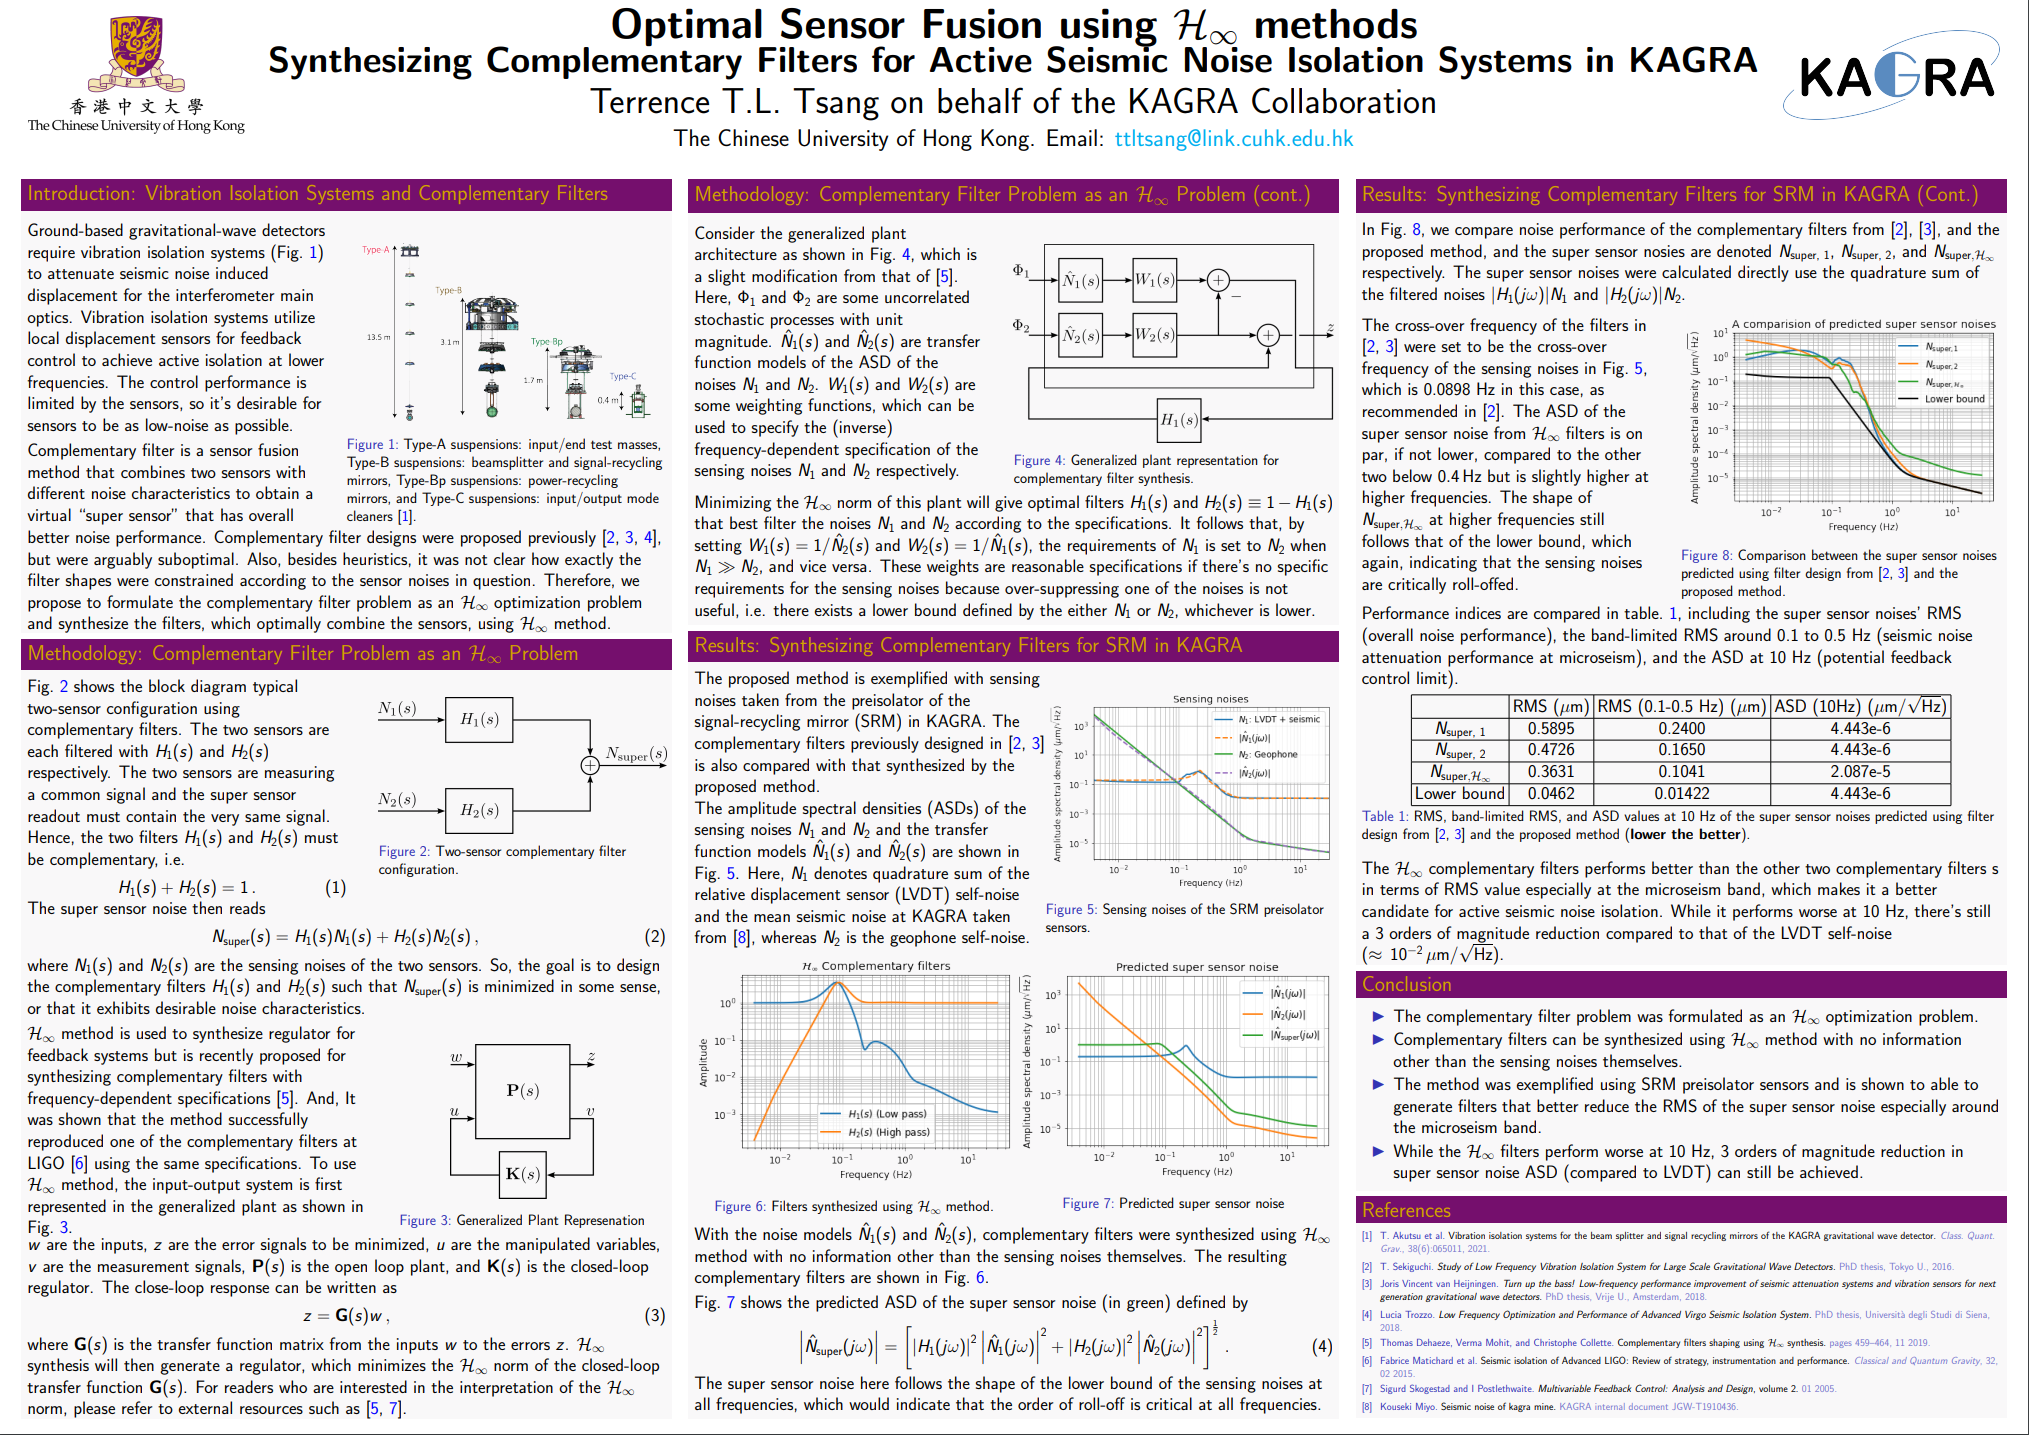
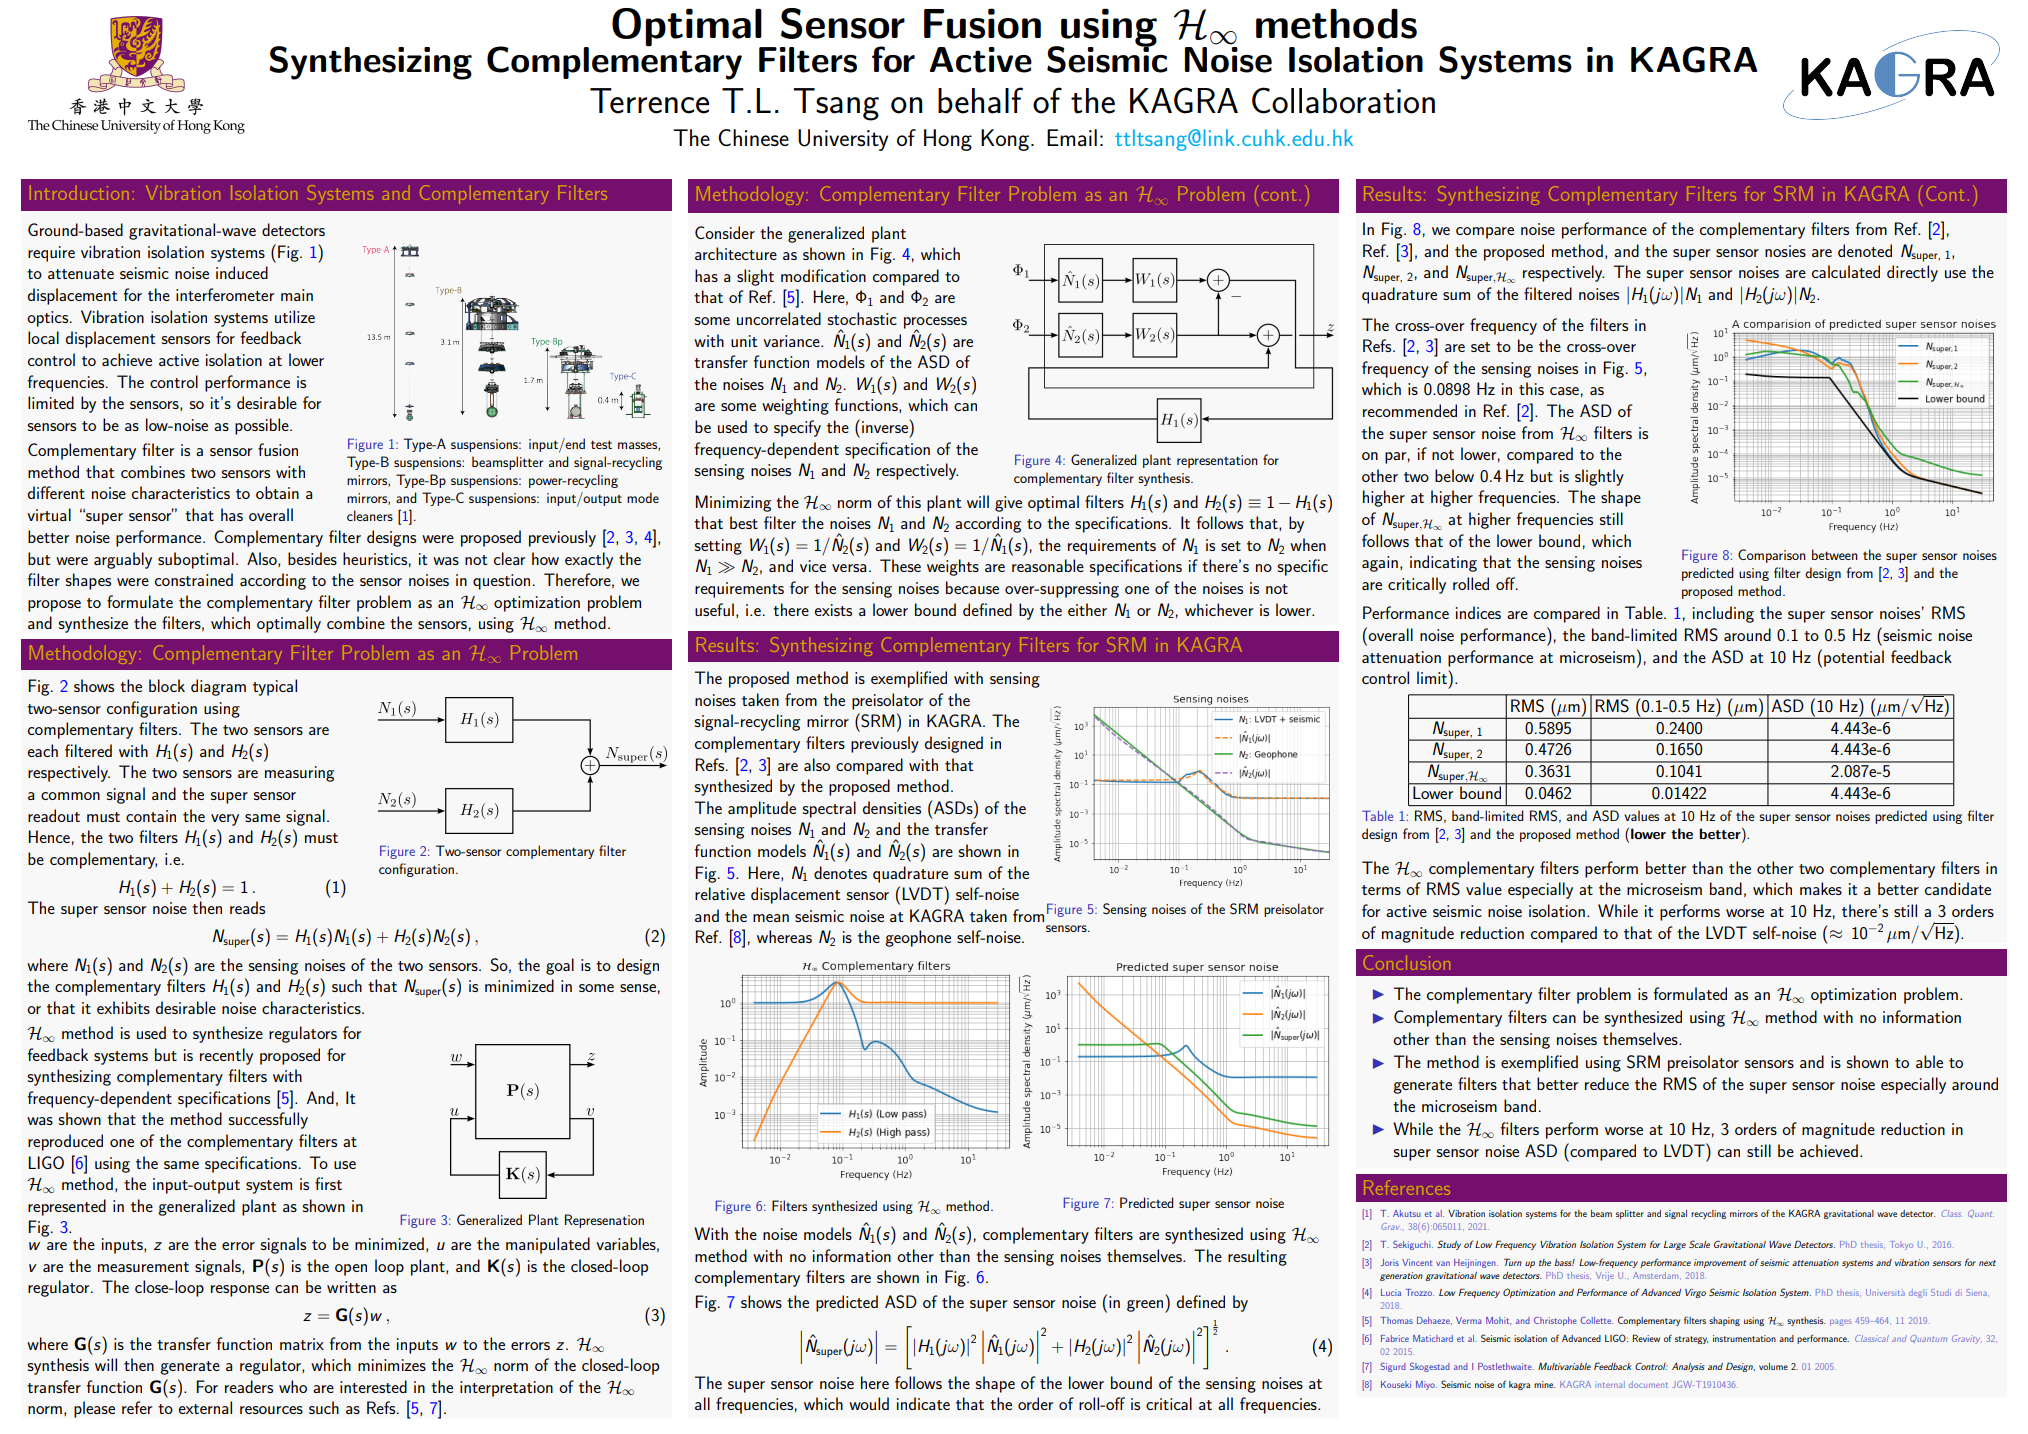
final submission

diff --git a/poster_terrence_tak_lun_tsang.tex b/poster_terrence_tak_lun_tsang.tex
@@ -182,7 +182,7 @@
 %			Therefore, we seek to find a method that can automatically generate optimal complementary filters according to the sensing noises themselves.
 			\begin{columns}[t, onlytextwidth]
 				\begin{column}{0.55\textwidth}
-					$\mathcal{H}_\infty$ method is used to synthesize regulator for feedback systems but is recently proposed for synthesizing complementary filters with frequency-dependent specifications \cite{Thomas:2019}.
+					$\mathcal{H}_\infty$ method is used to synthesize regulators for feedback systems but is recently proposed for synthesizing complementary filters with frequency-dependent specifications \cite{Thomas:2019}.
 					And, It was shown that the method successfully reproduced one of the complementary filters at LIGO \cite{Matichard:2015} using the same specifications.
 					To use $\mathcal{H}_\infty$ method, the input-output system is first represented in the generalized plant as shown in Fig.~\ref{fig:generalized_plant_representation}.
 				\end{column}
@@ -211,7 +211,7 @@
 			%			where $\mathbf{G}(s) = P_{11}(s) + P_{12}(s)\mathbf{K}(s)\left(I-P_{22}(s)\mathbf{K}(s)\right)^{-1}P_{21}(s)$ is the closed-loop transfer function matrix of the system.
 			where $\mathbf{G}(s)$ is the transfer function matrix from the inputs $w$ to the errors $z$.
 			$\mathcal{H}_\infty$ synthesis will then generate a regulator, which minimizes the $\mathcal{H}_\infty$ norm of the closed-loop transfer function $\mathbf{G}(s)$.
-			For readers who are interested in the interpretation of the $\mathcal{H}_\infty$ norm, please refer to external resources such as \cite{Thomas:2019, multivariable_feedback_control}.
+			For readers who are interested in the interpretation of the $\mathcal{H}_\infty$ norm, please refer to external resources such as Refs.~\cite{Thomas:2019, multivariable_feedback_control}.
 			\end{block}
 		\end{column}
 		
@@ -232,8 +232,8 @@
 			\begin{columns}[t, onlytextwidth]
 				\begin{column}{0.45\textwidth}
 %					Although everything about $\mathcal{H}_\infty$ method so far has been discussed under the context of feedback control, it can also be used to synthesize complementary filters.
-					Consider the generalized plant architecture as shown in Fig.~\ref{fig:generlized_plant_complementary_filter}, which is a slight modification from that of \cite{Thomas:2019}.
-					Here, $\Phi_1$ and $\Phi_2$ are some uncorrelated stochastic processes with unit magnitude.
+					Consider the generalized plant architecture as shown in Fig.~\ref{fig:generlized_plant_complementary_filter}, which has a slight modification compared to that of Ref.~\cite{Thomas:2019}.
+					Here, $\Phi_1$ and $\Phi_2$ are some uncorrelated stochastic processes with unit variance.
 					$\hat{N}_1(s)$ and $\hat{N}_2(s)$ are transfer function models of the ASD of the noises $N_1$ and $N_2$.
 					$W_1(s)$ and $W_2(s)$ are some weighting functions, which can be used to specify the (inverse) frequency-dependent specification of the sensing noises $N_1$ and $N_2$ respectively.
 				\end{column}
@@ -273,10 +273,10 @@
 				\begin{columns}[t, onlytextwidth]
 					\begin{column}{0.55\textwidth}
 						The proposed method is exemplified with sensing noises taken from the preisolator of the signal-recycling mirror (SRM) in KAGRA.
-						The complementary filters previously designed in \cite{Sekiguchi:2016bmv,vanHeijningen:2018cpc} is also compared with that synthesized by the proposed method.
+						The complementary filters previously designed in Refs.~\cite{Sekiguchi:2016bmv,vanHeijningen:2018cpc} are also compared with that synthesized by the proposed method.
 						
 						The amplitude spectral densities (ASDs) of the sensing noises $N_1$ and $N_2$ and the transfer function models $\hat{N}_1(s)$ and $\hat{N}_2(s)$ are shown in Fig.~\ref{fig:noise_fit}.
-						Here, $N_1$ denotes quadrature sum of the relative displacement sensor (LVDT) self-noise and the mean seismic noise at KAGRA taken from \cite{seismic_noise_of_kagra}, whereas $N_2$ is the geophone self-noise.
+						Here, $N_1$ denotes quadrature sum of the relative displacement sensor (LVDT) self-noise and the mean seismic noise at KAGRA taken from Ref.~\cite{seismic_noise_of_kagra}, whereas $N_2$ is the geophone self-noise.
 					\end{column}
 					\begin{column}{0.45\textwidth}
 						\begin{figure}
@@ -310,7 +310,7 @@
 				
 				\medskip
 				
-				With the noise models $\hat{N}_1(s)$ and $\hat{N}_2(s)$, complementary filters were synthesized using $\mathcal{H}_\infty$ method with no information other than the sensing noises themselves.
+				With the noise models $\hat{N}_1(s)$ and $\hat{N}_2(s)$, complementary filters are synthesized using $\mathcal{H}_\infty$ method with no information other than the sensing noises themselves.
 				The resulting complementary filters are shown in Fig.~\ref{fig:complementary_filters_hinfinity}.
 				
 				\medskip
@@ -331,16 +331,16 @@
 				%				complementary filters from advanced LIGO \cite{Matichard:2015} and Virgo \cite{low_frequency_optimization_and_performance_of_advanced_virgo_seismic_isolation_system} also exhibit similar behavior, but the feature is clearly missing from that of \cite{Sekiguchi:2016bmv} and \cite{vanHeijningen:2018cpc}.
 				%				This is a designed feature to provide additional seismic noise attenuation in the relative displacement sensor readout.
 				%				Using the proposed method, we arrived at the same design feature by optimization using no additional information rather than the sensing noise themselves.
-			In Fig.~\ref{fig:super_sensor_noise_comparison}, we compare noise performance of the complementary filters from \cite{Sekiguchi:2016bmv}, \cite{vanHeijningen:2018cpc}, and the proposed method, and the super sensor nosies are denoted $N_\text{super, 1}$, $N_\text{super, 2}$, and $N_{\text{super},\mathcal{H}_\infty}$ respectively.
-			The super sensor noises were calculated directly use the quadrature sum of the filtered noises $\vert H_1(j\omega)\vert N_1$ and $\vert H_2(j\omega)\vert N_2$.
+			In Fig.~\ref{fig:super_sensor_noise_comparison}, we compare noise performance of the complementary filters from Ref.~\cite{Sekiguchi:2016bmv}, Ref.~\cite{vanHeijningen:2018cpc}, and the proposed method, and the super sensor nosies are denoted $N_\text{super, 1}$, $N_\text{super, 2}$, and $N_{\text{super},\mathcal{H}_\infty}$ respectively.
+			The super sensor noises are calculated directly use the quadrature sum of the filtered noises $\vert H_1(j\omega)\vert N_1$ and $\vert H_2(j\omega)\vert N_2$.
 			
 			\medskip
 			
 			\begin{columns}[onlytextwidth]
 				\begin{column}{0.45\textwidth}
-					The cross-over frequency of the filters in \cite{Sekiguchi:2016bmv, vanHeijningen:2018cpc} were set to be the cross-over frequency of the sensing noises in Fig.~\ref{fig:noise_fit}, which is 0.0898 Hz in this case, as recommended in \cite{Sekiguchi:2016bmv}.
+					The cross-over frequency of the filters in Refs.~\cite{Sekiguchi:2016bmv, vanHeijningen:2018cpc} are set to be the cross-over frequency of the sensing noises in Fig.~\ref{fig:noise_fit}, which is 0.0898 Hz in this case, as recommended in Ref.~\cite{Sekiguchi:2016bmv}.
 					The ASD of the super sensor noise from $\mathcal{H}_\infty$ filters is on par, if not lower, compared to the other two below $0.4\,\text{Hz}$ but is slightly higher at higher frequencies.
-					The shape of $N_{\text{super}, \mathcal{H}_\infty}$ at higher frequencies still follows that of the lower bound, which again, indicating that the sensing noises are critically roll-offed.
+					The shape of $N_{\text{super}, \mathcal{H}_\infty}$ at higher frequencies still follows that of the lower bound, which again, indicating that the sensing noises are critically rolled off.
 				\end{column}
 				\begin{column}{0.5\textwidth}
 					\begin{figure}
@@ -354,11 +354,11 @@
 
 			\medskip
 			
-			Performance indices are compared in table.~\ref{table:metrics}, including the super sensor noises' RMS (overall noise performance), the band-limited RMS around 0.1 to 0.5 Hz (seismic noise attenuation performance at microseism), and the ASD at 10 Hz (potential feedback control limit).
+			Performance indices are compared in Table.~\ref{table:metrics}, including the super sensor noises' RMS (overall noise performance), the band-limited RMS around 0.1 to 0.5 Hz (seismic noise attenuation performance at microseism), and the ASD at 10 Hz (potential feedback control limit).
 			\begin{table}
 				\begin{tabular}{|c|c|c|c|}
 					\hline
-					& RMS ($\mu\text{m}$) & RMS (0.1-0.5 Hz) ($\mu\text{m}$)& ASD (10Hz) ($\mu\text{m}/\sqrt{\text{Hz}}$)\\
+					& RMS ($\mu\text{m}$) & RMS (0.1-0.5 Hz) ($\mu\text{m}$)& ASD (10 Hz) ($\mu\text{m}/\sqrt{\text{Hz}}$)\\
 					\hline
 					$N_\text{super, 1}$ & 0.5895 & 0.2400 & 4.443e-6\\
 					\hline
@@ -372,14 +372,14 @@
 				\caption{RMS, band-limited RMS, and ASD values at 10 Hz of the super sensor noises predicted using filter design from \cite{Sekiguchi:2016bmv,vanHeijningen:2018cpc} and the proposed method (\textbf{lower the better}).}
 				\label{table:metrics}
 			\end{table}
-			The $\mathcal{H}_\infty$ complementary filters performs better than the other two complementary filters s in terms of RMS value especially at the microseism band, which makes it a better candidate for active seismic noise isolation.
+			The $\mathcal{H}_\infty$ complementary filters perform better than the other two complementary filters in terms of RMS value especially at the microseism band, which makes it a better candidate for active seismic noise isolation.
 			While it performs worse at 10 Hz, there's still a 3 orders of magnitude reduction compared to that of the LVDT self-noise ($\approx\, 10^{-2}\,\mu\text{m}/\sqrt{\text{Hz}}$).
 			\end{block}
 			\begin{block}{Conclusion}
 				\begin{itemize}
-					\item The complementary filter problem was formulated as an $\mathcal{H}_\infty$ optimization problem.
+					\item The complementary filter problem is formulated as an $\mathcal{H}_\infty$ optimization problem.
 					\item Complementary filters can be synthesized using $\mathcal{H}_\infty$ method with no information other than the sensing noises themselves.
-					\item The method was exemplified using SRM preisolator sensors and is shown to able to generate filters that better reduce the RMS of the super sensor noise especially around the microseism band.
+					\item The method is exemplified using SRM preisolator sensors and is shown to able to generate filters that better reduce the RMS of the super sensor noise especially around the microseism band.
 					\item While the $\mathcal{H}_\infty$ filters perform worse at 10 Hz, 3 orders of magnitude reduction in super sensor noise ASD (compared to LVDT) can still be achieved.
 				\end{itemize}
 			\end{block}
